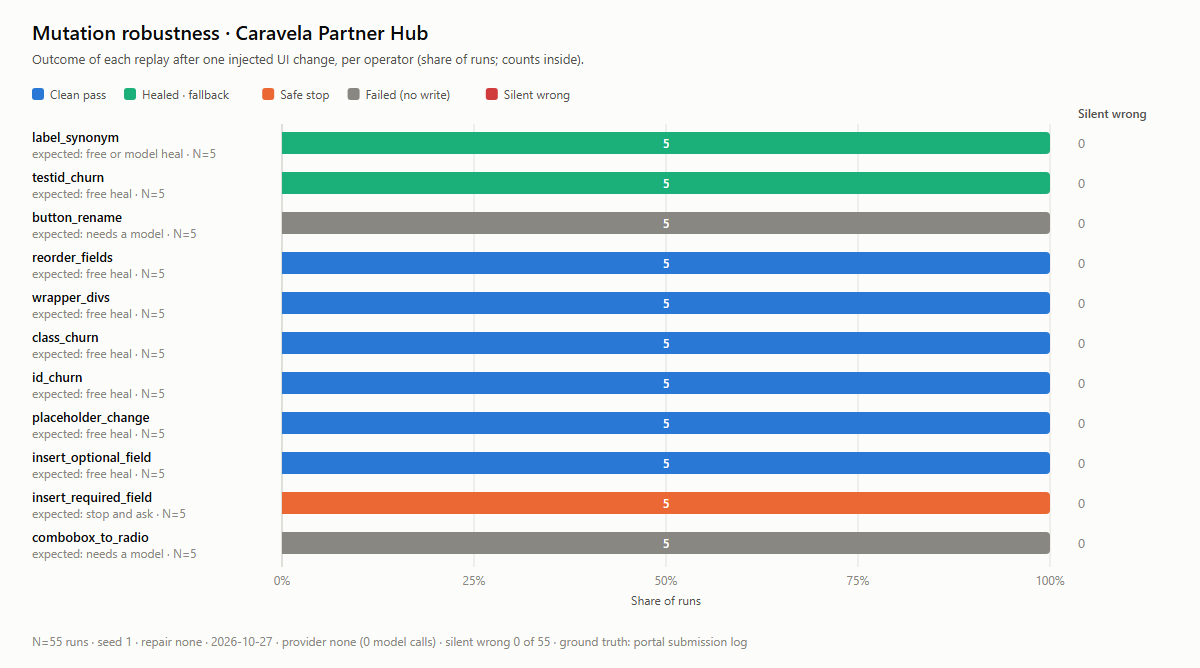
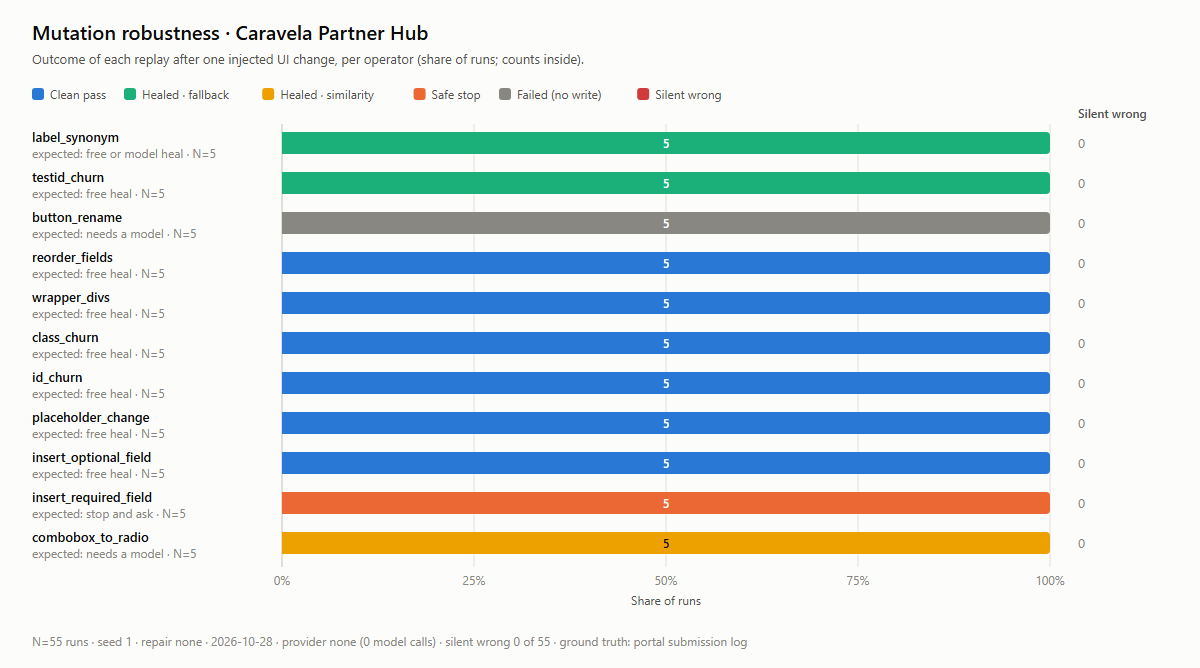
Rerun the caravela mutation suite: combobox_to_radio now heals for free

Changed region(s): [[0.2158, 0.7784, 0.8942, 0.8383], [0.2158, 0.1198, 0.4933, 0.1497], [0.5242, 0.1198, 0.6167, 0.1497]]

diff --git a/evals/results/summary.md b/evals/results/summary.md
@@ -2,11 +2,11 @@
 
 **Silent wrong: 0 of 105 runs** (a submission with any wrong field; the number that must stay at 0).
 
-Generated 2026-10-27T14:36:40.331Z. Ground truth is each portal's own submission log. Scripted and fake runs are labeled by provider and never reported as agentic or first runs.
+Generated 2026-10-28T05:35:39.740Z. Ground truth is each portal's own submission log. Scripted and fake runs are labeled by provider and never reported as agentic or first runs.
 
 ## Runs
 
-- mutation · caravela_register_deal · seed 1 · repair none · provider none · N=55: correct 45/55 (81.8%: 40 right submissions + 5 required safe stops) · silent wrong 0 · safe stops 5 · failed 10 · heals fallback 10 runs (73 steps) · p50 3.05 s, p90 3.80 s · 0 model calls, $0.0000/run
+- mutation · caravela_register_deal · seed 1 · repair none · provider none · N=55: correct 50/55 (90.9%: 45 right submissions + 5 required safe stops) · silent wrong 0 · safe stops 5 · failed 5 · heals fallback 10 runs (73 steps), similarity 5 runs (5 steps) · p50 3.88 s, p90 5.88 s · 0 model calls, $0.0000/run
 - replay · caravela_register_deal · seed 1 · repair none · provider none · N=50: correct 50/50 (100.0%) · silent wrong 0 · safe stops 0 · failed 0 · heals none · p50 3.12 s, p90 3.68 s · 0 model calls, $0.0000/run
 
 ## mutation by change · caravela_register_deal · seed 1 · repair none · provider none · N=55
@@ -23,7 +23,7 @@ Generated 2026-10-27T14:36:40.331Z. Ground truth is each portal's own submission
 | placeholder_change | free heal expected | 5 | 5 | 0 | 0 | 0 | 0 |
 | insert_optional_field | free heal expected | 5 | 5 | 0 | 0 | 0 | 0 |
 | insert_required_field | must stop and ask | 5 | 0 | 0 | 5 | 0 | 0 |
-| combobox_to_radio | needs a model rung | 5 | 0 | 0 | 0 | 5 | 0 |
+| combobox_to_radio | needs a model rung | 5 | 0 | 5 similarity | 0 | 0 | 0 |
 
 ## Charts
 
